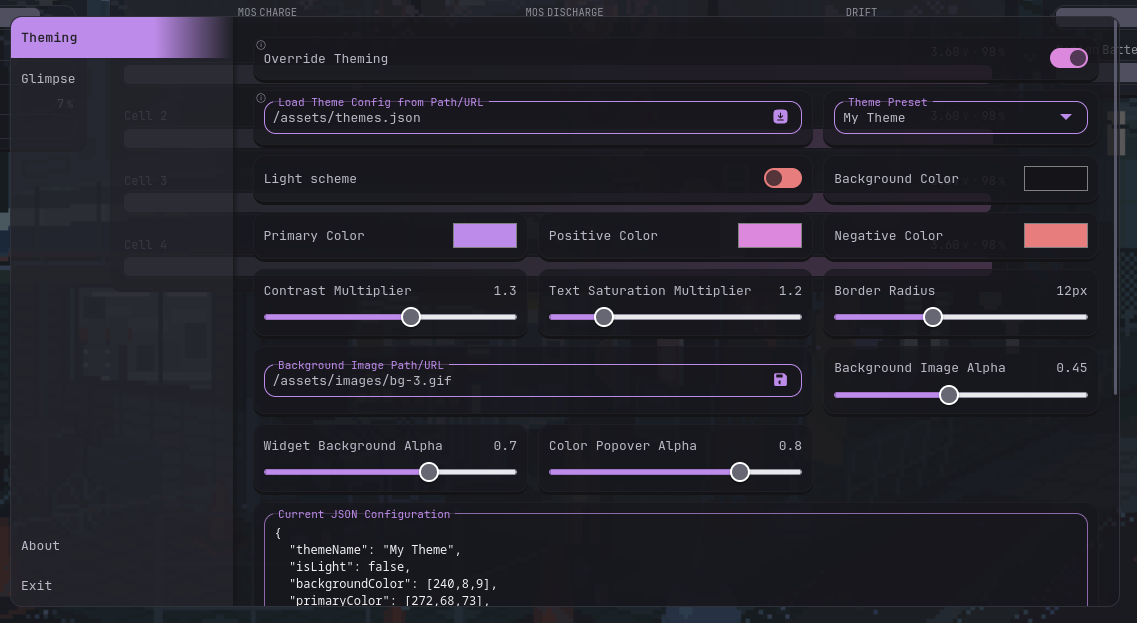
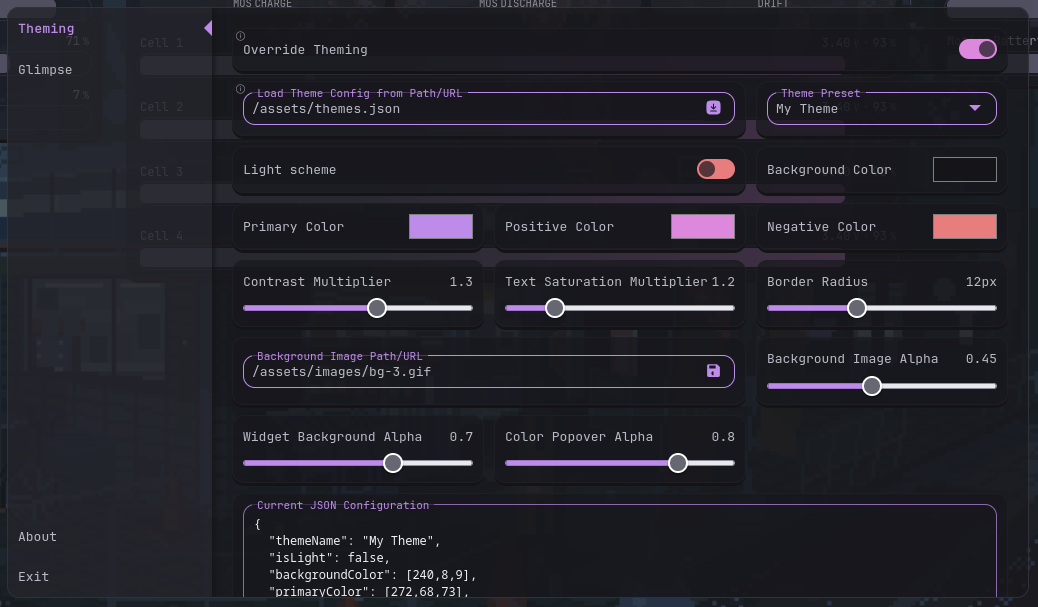
updated background to foreground contrast

diff --git a/custom-settings/style.css b/custom-settings/style.css
@@ -37,7 +37,12 @@
   box-shadow: 0.2rem 0 0.5rem hsl(var(--bghs), calc(var(--scheme) (var(--scheme) var(--bgl)) - 0.5%));
 }
 
+#modal.custom-settings nav .nav-bottom {
+  margin-top: auto;
+}
+
 #modal.custom-settings nav div[role="button"] {
+  position: relative;
   cursor: pointer;
   user-select: none;
   padding: 1rem;
@@ -45,24 +50,34 @@
   transition: background 0.3s;
 }
 
-#modal.custom-settings nav .nav-bottom {
-  margin-top: auto;
-}
-
 #modal.custom-settings nav div[role="button"].exit-btn:hover {
   background: linear-gradient(to right, var(--color-negative) 0%, var(--color-negative) 65%, transparent 100%);
-  color: var(--color-separator);
+  color: var(--color-background);
 }
 
-#modal.custom-settings nav div[role="button"]:hover {
-  background: linear-gradient(to right, var(--color-separator) 0%, var(--color-separator) 65%, transparent 100%);
+#modal.custom-settings nav div[role="button"]:hover,
+#modal.custom-settings nav div[role="button"].active:hover {
+  background: linear-gradient(to right, var(--color-primary) 0%, var(--color-primary) 0%, transparent 100%);
+  color: var(--color-background);
 }
 
 #modal.custom-settings nav div[role="button"].active {
   cursor: default;
-  background: linear-gradient(to right, var(--color-primary) 0%, var(--color-primary) 65%, transparent 100%);
-  color: var(--color-separator);
+  color: var(--color-primary);
   font-weight: bold;
+}
+
+#modal.custom-settings nav div[role="button"].active::after {
+  content: '';
+  position: absolute;
+  top: 50%;
+  right: 0;
+  transform: translateY(-50%);
+  width: 0;
+  height: 0;
+  border-top: 8px solid transparent;
+  border-bottom: 8px solid transparent;
+  border-right: 8px solid var(--color-primary);
 }
 
 #modal.custom-settings main {
@@ -126,7 +141,7 @@
 #modal.custom-settings button.btn {
   padding: 5px 10px;
   background: var(--color-primary);
-  color: var(--color-separator);
+  color: var(--color-background);
   border-radius: var(--border-radius);
 }
 

diff --git a/custom-menu/style.css b/custom-menu/style.css
@@ -69,5 +69,5 @@
 
 .popover-content .custom-menu-items .custom-menu-item:hover img,
 .popover-content .custom-menu-items .custom-menu-item:hover svg {
-  color: var(--color-separator);
+  color: var(--color-background);
 }
